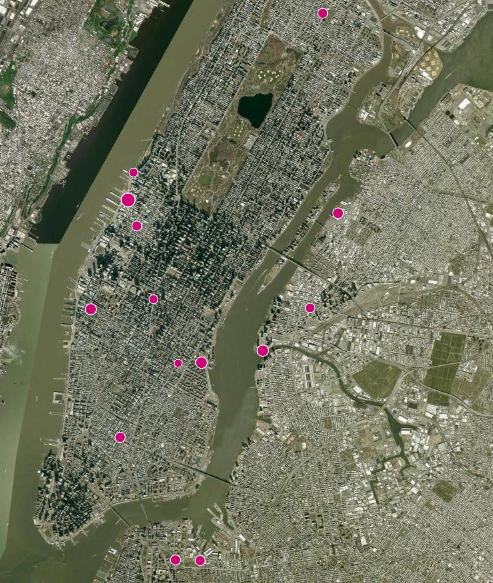
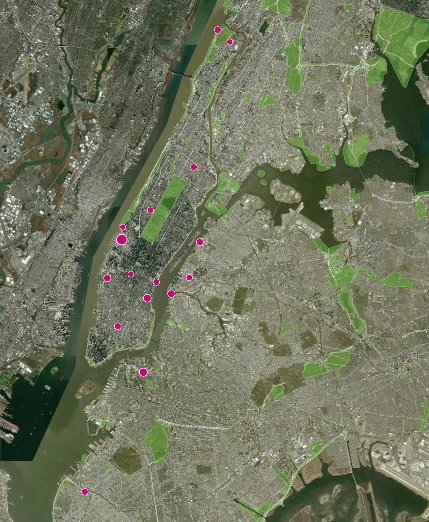
updated trees count

diff --git a/src/pages/posts/trees-count.md b/src/pages/posts/trees-count.md
@@ -6,12 +6,12 @@ pubDate: 'Wed, 31 Dec 2025 08:00:00 EST'
 
 # Trees Count 2025
 
-Every ten years, NYC Parks does a survey of all the trees under their management in the entire city. Because I moved here in 2025, I arrived at the perfect time to get involved. I attended a training event in Bryant Park where I learned how to identify tree species and input the relevant tree health data into ArcGIS and then I got to survey trees on my own in any of the parks in the city. Here's a map of all the parks I've surveyed trees in so far:
+Every ten years, NYC Parks does a survey of all the trees under their management in the entire city. Because I moved here in 2025, I arrived at the perfect time to get involved. I attended a training event in Bryant Park where I learned how to identify tree species and input the relevant tree health data into ArcGIS and then I was invited to survey trees on my own in any of the parks in the city. Here's a map of all the parks I've surveyed trees in so far:
 
 <img src="/treescount-map.webp" alt="Map of NYC with pink dots over several parks where I counted trees" width="80%"/>
 
-For each tree, I measured its circumference, identified the species, and input a few health observations such as insect damage or excessive litter. I got to survey a wide variety of trees from new plantings in Hunter's Point to huge osage orange trees in Marcus Garvey Memorial Park. I also explored a lot of different parks that I hadn't seen before. 
+For each tree, I measured its circumference, identified the species, and input a few health observations such as insect damage or excessive litter. I've surveyed a wide variety of trees from new plantings in Hunter's Point to huge osage orange trees in Marcus Garvey Memorial Park. I also explored a lot of different parks that I hadn't seen before. 
 
-In total, I've surveyed 373 trees so far. My top three species were london plane, japanese zelkova, and thornless honeylocust, which lines up with some of the overall top species planted in the parks. It was sad to see that every plane tree I surveyed was struggling with the heat but at least there were other species that fared better.
+In total, I've surveyed about 500 trees so far. My top three species are london plane, callery pear, and japanese zelkova, which is similar to the overall top species planted in the parks. It was sad to see that every plane tree I surveyed was struggling with the heat but at least there were other species that fared better.
 
 If you'd like to learn more or get involved, the NYC Parks page is [here](https://www.nycgovparks.org/reg/trees-count/).
